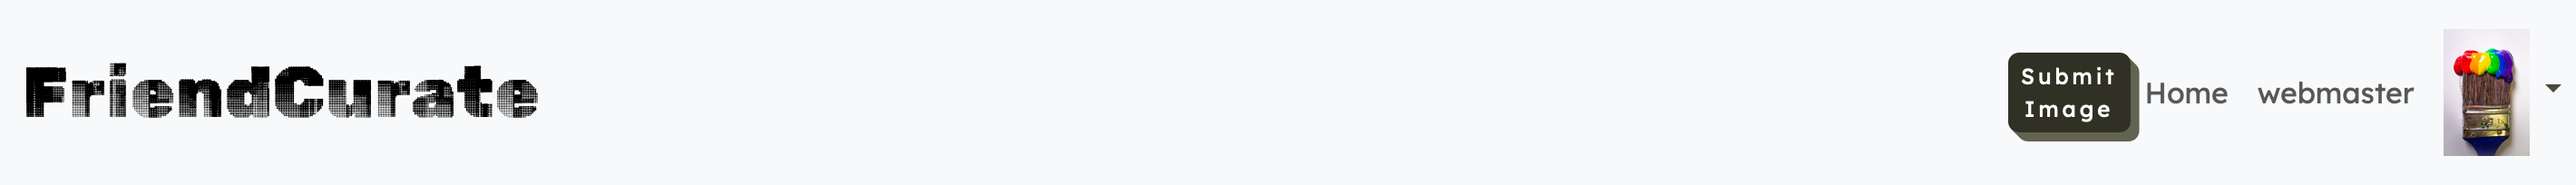
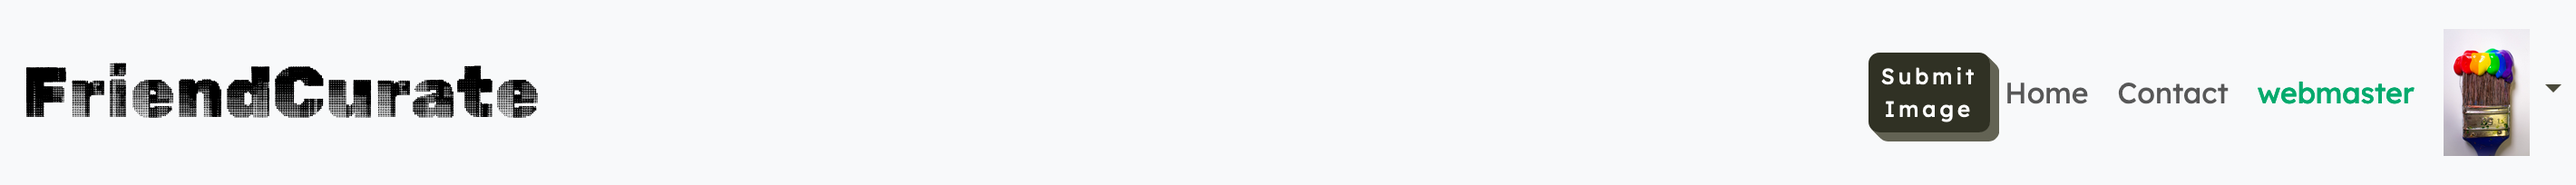
added changes

Changed region(s): [[0.7127, 0.2647, 0.9606, 0.7647]]

diff --git a/contact/templates/contact/contact.html b/contact/templates/contact/contact.html
@@ -1,0 +1,80 @@
+{% extends 'base.html' %}
+{% load static %}
+{% load crispy_forms_tags %}
+
+{% block content %}
+<div class="contact-us mx-auto">
+    <h3>Newsletter</h3>
+
+    <p>Friendcurate has a weekly newsletter, bringing a spotlight to featured artists, art software you might not have
+        heard
+        of and new
+        techniques! To sign up to this newsletter straight in your inbox, please put in your e-mail address below:
+    </p>
+    <form method="post" action="{% url 'subscribe' %}">
+        {% csrf_token %}
+        {{ subscribe_form|crispy }}
+        <button type="submit" class="btn btn-primary" class="btn btn-outline-success">Subscribe</button>
+    </form>
+</div>
+
+
+<div class="contact-us mx-auto">
+    <h3>Contact Us</h3>
+
+    <p>Thank you for using our website! We are always looking for ways to innovate and improve on our website for the
+        user
+        experience, and welcome feedback.
+    </p>
+    <form method="post" action="{% url 'contact' %}">
+        {{ contact_form | crispy }}
+        {% csrf_token %}
+        <button type="submit" class="btn btn-outline-success" data-bs-toggle="modal" data-bs-target="#contactModal">Submit</button>
+    </form>
+</div>
+
+{% endblock content %}
+<!--- subscribe modal -->
+<div class="modal fade" id="subscribeModal" tabindex="-1" aria-labelledby="submitModalLabel" aria-hidden="true">
+    <div class="modal-dialog">
+        <div class="modal-content">
+            <div class="modal-header">
+                <h1 class="modal-title fs-5" id="submitModalLabel">Thanks for subscribing!</h1>
+                <button type="button" class="btn-close" data-bs-dismiss="modal" aria-label="Close"></button>
+            </div>
+            <div class="modal-body">
+                <p>You have been subscribed to the newsletter.</p>
+            </div>
+            <div class="modal-footer">
+            </div>
+        </div>
+    </div>
+</div>
+
+<!--- contact modal -->
+<div class="modal fade" id="contactModal" tabindex="-1" aria-labelledby="exampleModalLabel" aria-hidden="true">
+    <div class="modal-dialog">
+        <div class="modal-content">
+            <div class="modal-header">
+                <h1 class="modal-title fs-5" id="exampleModalLabel">Thanks for your message</h1>
+                <button type="button" class="btn-close" data-bs-dismiss="modal" aria-label="Close"></button>
+            </div>
+            <div class="modal-body">
+                <p> Thanks for contacting us. We'll be in touch soon!</p>
+            </div>
+            <div class="modal-footer">
+                <button type="button" class="btn btn-secondary" data-bs-dismiss="modal">Close</button>
+            </div>
+        </div>
+    </div>
+</div>
+
+{% if request.GET.subscribed == 1 %}
+<p>DEBUG: Subscribed param detected</p>
+<script>
+  document.addEventListener('DOMContentLoaded', function() {
+    var modal = new bootstrap.Modal(document.getElementById('subscribeModal'));
+    modal.show();
+  });
+</script>
+{% endif %}

diff --git a/templates/base.html b/templates/base.html
@@ -51,9 +51,12 @@
                 <li class="nav-item">
                     <a class="nav-link" href="{% url 'home' %}">Home</a>
                 </li>
+                 <li class="nav-item">
+                    <a class="nav-link" href="{% url 'contact' %}">Contact</a>
+                </li>
                 {% if user.is_authenticated %}
 
-                <li class="nav-item"><a class="nav-link" href="{% url 'profile' user.id %}">{{user.username}}</a></li>
+                <li class="nav-item"><a class="nav-link" href="{% url 'profile' user.id %}" id="username">{{user.username}}</a></li>
                 <li class="nav-item dropdown" id="profile-dropdown">
                     <a href="{% url 'profile' user.id %}" class="nav-link dropdown-toggle avatar-dropdown"
                         data-bs-toggle="dropdown" role="button" aria-expanded="false">
@@ -101,8 +104,7 @@
                     <form method="post" action="{% url 'subscribe' %}">
                         {% csrf_token %}
                         {{ subscribe_form|crispy }}
-                        <input id="email" name="email" type="email" placeholder="Email address" required>
-                        <button type="submit" class="btn btn-outline-success">Submit</button>
+                        <button type="submit" class="btn btn-outline-success">Subscribe</button>
                     </form>
 
                 </div>

diff --git a/static/css/styles.css b/static/css/styles.css
@@ -35,6 +35,10 @@ a::after {
     margin: auto !important;
 }
 
+#username {
+    color:#04AA6D;
+}
+
 body h2 {
     font-family: var(--subheading-font), serif !important;
     font-size: 2rem;
@@ -73,7 +77,7 @@ footer a {
 
 footer a:hover {
     color:#D3D1C4;
-    
+
 }
 /* on the index.html page */
 
@@ -319,4 +323,10 @@ main {
     list-style-type:none; 
 
 }
+/* contact.html css */
 
+.contact-us {
+    background-color: rgba(40, 40, 40, 0.2);
+    width:80%;
+    padding:2%;
+}

diff --git a/contact/views.py b/contact/views.py
@@ -1,6 +1,7 @@
 from django.shortcuts import render, redirect
 from django.core.mail import send_mail
 from django.contrib import messages
+from django.urls import reverse
 from .forms import ContactForm, NewsletterForm
 
 # Create your views here.
@@ -16,11 +17,13 @@ def contact_us(request):
     :template:`contact/contact.html`
     """
     contact_form = ContactForm()
+    subscribe_form = NewsletterForm()
     return render(
         request,
         "contact/contact.html",
         {
-            "contact_form": contact_form
+            "contact_form": contact_form, 
+            "subscribe_form": subscribe_form
         }
     )
 
@@ -37,21 +40,8 @@ def subscribe(request):
         if form.is_valid():
             form.save()
             messages.success(request, "You subscribed to our newsletter!")
-            email = request.POST.get("email")
-            subject = "Thanks for subscribing to Friendcurate"
-            message = (
-                "Thank you for subscribing to our newsletter,"
-                + "you will see the latest developments"
-                + "in visual arts and about our site!"
-                + "Go back https://friendcurate.herokuapp.com/"
-            )
-            from_email = "acmuckian@gmail.com"
-            recipient_list = [email]
-            send_mail(subject,
-                      message, from_email, recipient_list, fail_silently=False)
-            return redirect("/")
+            return redirect(reverse('contact') + '?subscribed=1')
     else:
-        form = NewsletterForm
-
+        form = NewsletterForm()
     context = {"form": form}
     return render(request, "index.html", context)

diff --git a/contact/models.py b/contact/models.py
@@ -8,7 +8,7 @@ class ContactRequest(models.Model):
     Stores a single entry of a request to make contact.
     """
     name = models.CharField(max_length=200)
-    email = models.EmailField(default="example@example.com")
+    email = models.EmailField()
     body = models.TextField(max_length=1000)
 
     def __str__(self):
@@ -19,7 +19,7 @@ class NewsletterSubscription(models.Model):
     """
     Stores a single entry of a subscription to the newsletter.
     """
-    email = models.EmailField(default="example@example.com")
+    email = models.EmailField()
     created_on = models.DateTimeField(auto_now_add=True)
 
     def __str__(self):

diff --git a/friendcurate/settings.py b/friendcurate/settings.py
@@ -164,3 +164,5 @@ MEDIA_ROOT = BASE_DIR / 'media'
 # https://docs.djangoproject.com/en/4.2/ref/settings/#default-auto-field
 
 DEFAULT_AUTO_FIELD = 'django.db.models.BigAutoField'
+
+EMAIL_BACKEND = 'django.core.mail.backends.console.EmailBackend'

diff --git a/contact/urls.py b/contact/urls.py
@@ -8,4 +8,5 @@ from django.contrib.auth import views as auth_views
 
 urlpatterns = [
     path("subscribe", views.subscribe, name="subscribe"),
+    path("contact_us", views.contact_us, name="contact")
 ]

diff --git a/README.md b/README.md
@@ -60,7 +60,7 @@ The colour scheme for Friendcurate was selected from an image of a charcoal sket
 
 ### Typography 
 
-The Friendcurate logo is in the ![Rubik 80s Fade](https://fonts.google.com/specimen/Rubik+80s+Fade) font. The main header font for the main headers is ![Cabin Sketch](https://fonts.google.com/specimen/Cabin+Sketch) - to reflect the art element of the website. Some of the headings use the ![Press Start 2P](https://fonts.google.com/specimen/Press+Start+2P) to give a cool, retro feel to the website and accompanies the Rubik 80s Fade font. 
+The Friendcurate logo is in the [Rubik 80s Fade](https://fonts.google.com/specimen/Rubik+80s+Fade) font. The main header font for the main headers is [Cabin Sketch](https://fonts.google.com/specimen/Cabin+Sketch) - to reflect the art element of the website. Some of the headings use the [Press Start 2P](https://fonts.google.com/specimen/Press+Start+2P) to give a cool, retro feel to the website and accompanies the Rubik 80s Fade font. 
 
 ### Wireframes 
 
@@ -144,6 +144,7 @@ The repository can also be cloned for local deployment. To clone the repository:
 3. Give the app a name which is unique, and select the location for Common Runtime. I selected **Europe** where I am based. 
 4. Click create app. 
 5. After this, in the Config Vars, click reveal and insert the following variables:
+
 | Key                   | Value                        |
 |-----------------------|------------------------------|
 | DATABASE_URL          | user's own value             |
@@ -151,19 +152,24 @@ The repository can also be cloned for local deployment. To clone the repository:
 | CLOUDINARY_URL        | user's own value             |
 | SECRET_KEY            | user's own value             |
 
-6. Ensure procfile is in the repository as required by Heroku - install with ```echo web: gunicorn app_name.wsgi > Procfile
+6. Ensure procfile is in the repository as required by Heroku - install with 
+`echo web: gunicorn app_name.wsgi > Procfile`
+
 (instead of app_name, put in your own app's name)
-7. install dependencies using ```pip install -r requirements.txt
+7. install dependencies using 
+`pip install -r requirements.txt`
 8. Select Automatic Deployment from the Heroku app to connect to your repository - alternatively, you can deploy manually via Heroku CLI or GitHub integration. 
 9. Manual deployment can be done as follows:
-- log in to Heroku from the terminal ```heroku login -i 
-- set the heroku remote (replace app_name with name of your heroku app) ```heroku git:remote -a app_name 
-- add, commit and push changes to github 
-```git add .
-```git commit -m 'commit message' 
-``` git push heroku main
+- log in to Heroku from the terminal 
+` heroku login -i `
+- set the heroku remote (replace app_name with name of your heroku app) 
+``` heroku git:remote -a app_name 
 ```
-- deploy to heroku by pushing the code: ```git push heroku main
+- add, commit and push changes to github 
+``` git add . git commit -m 'commit message'  git push heroku main ```
+- deploy to heroku by pushing the code: 
+`git push heroku main`
+
 
 ## Testing 
 
